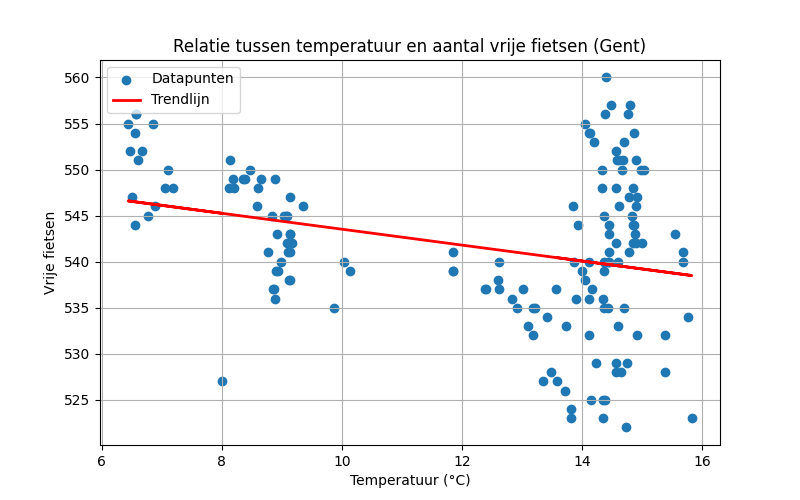
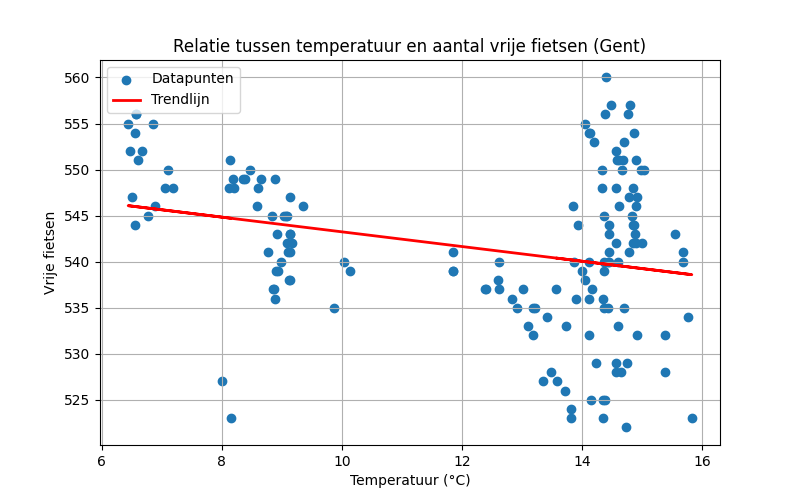
Automatische update 2025-11-17 08:45:09

diff --git a/reports/report.md b/reports/report.md
@@ -1,22 +1,22 @@
 # Data Workflow Rapport
 
-**Gegenereerd op:** 2025-11-17 08:30:09.995340
+**Gegenereerd op:** 2025-11-17 08:45:08.369363
 
 ## Grafiek: Vrije fietsen vs Temperatuur
 ![Fietsen vs Temp](fiets_vs_temp.png)
 
 ## Basisstatistieken
-- Gemiddelde temperatuur: 12.22 °C
-- Gemiddeld aantal vrije fietsen: 542
+- Gemiddelde temperatuur: 12.19 °C
+- Gemiddeld aantal vrije fietsen: 541
 - Gemiddeld aantal fietsen overdag (07-19u): 539
 - Gemiddeld aantal fietsen ’s nachts (19-07u): 545
-- Correlatie: -0.30
+- Correlatie: -0.27
 
 ## Vrije fietsen per weekdag
 
 | Weekdag | Min | Max | Gemiddelde |
 |---------|-----|-----|------------|
-| Maandag | 527 | 556 | 546 |
+| Maandag | 523 | 556 | 540 |
 | Dinsdag | 0 | 0 | 0 |
 | Woensdag | 0 | 0 | 0 |
 | Donderdag | 525 | 550 | 535 |
